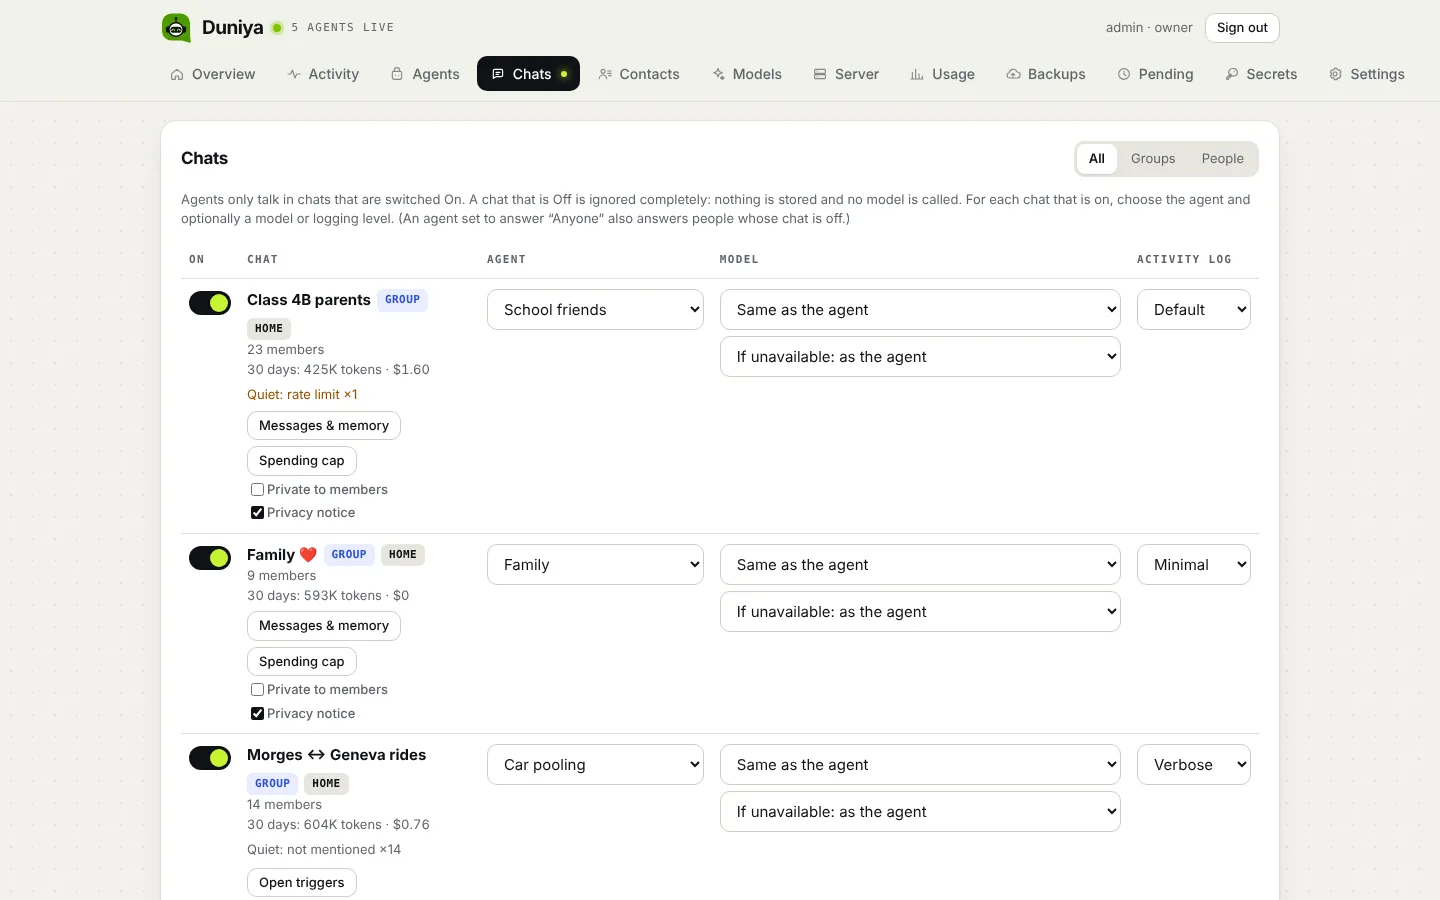
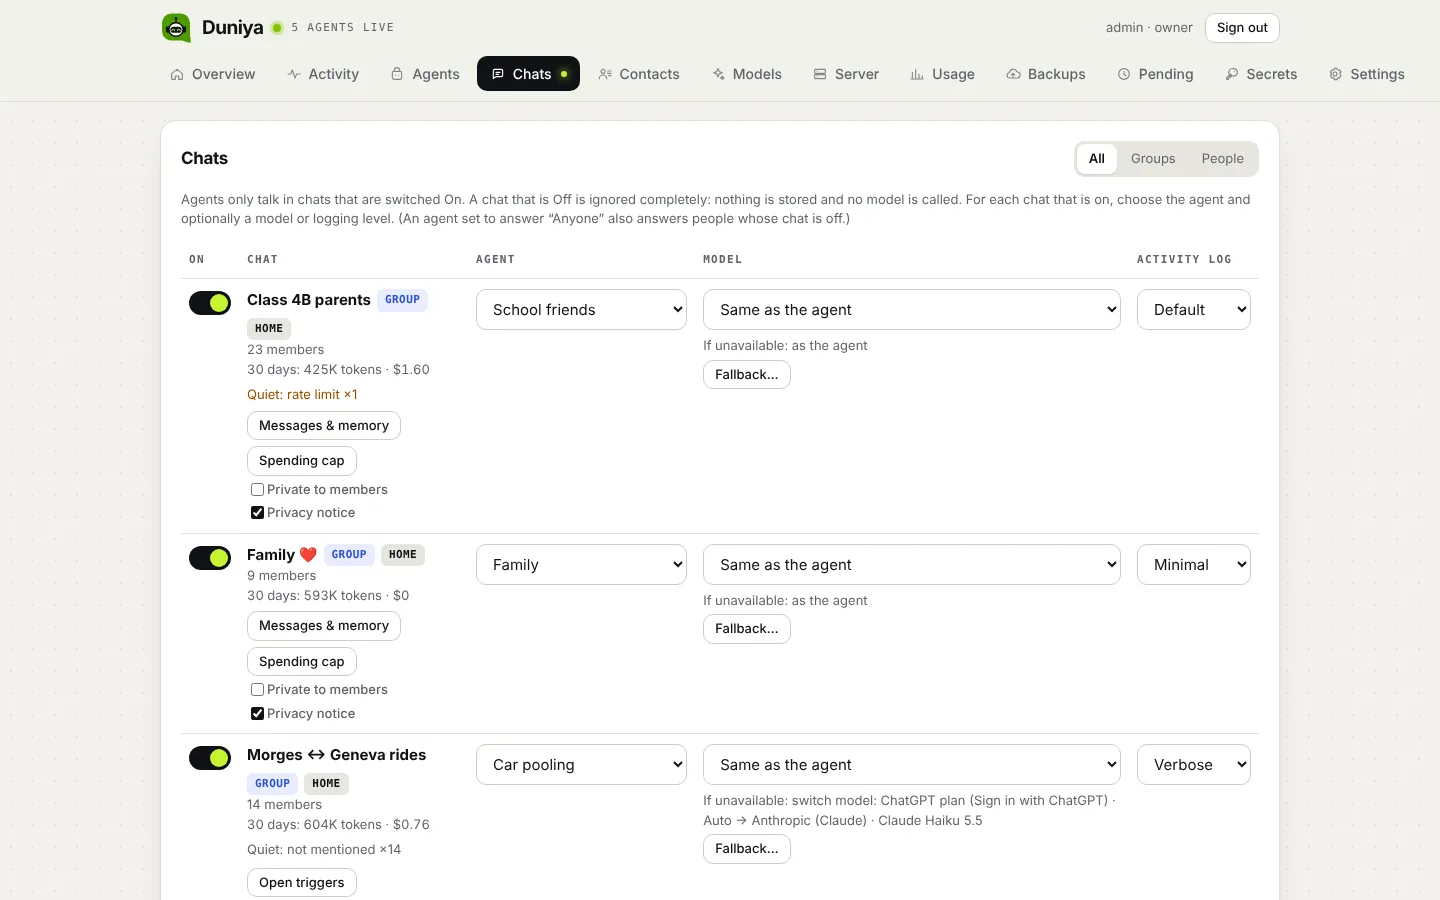
Chats: editor for the per-chat model fallback chain (Closes #65)
- Chats page: a summary line under each chat's model ("If unavailable: switch
  model: A → B") and a Fallback… button that opens a card below the list with
  the same picker and ordered chain editor as the agent page (phone friendly).
- fallbackPicker() takes an inheritLabel ("As the agent" for chats); chain
  ↑/✕ buttons are 40 px wide for touch.
- Admin MCP set_chat_settings: giving only fallback_mode or fallback_chain
  keeps the other half, like the panel editor.
- Tests (test/chat-fallback-editor.test.js), responsive state chats-fallback,
  demo chat with an own chain, new site shot card-chat-fallback, chats shots
  retaken; docs/models.md, docs/admin-mcp.md; spec 042 story 5.

Claude-Session: https://claude.ai/code/session_014omnJXeGyyVEJAZVY1v8BS

diff --git a/src/panel/public/index.html b/src/panel/public/index.html
@@ -106,6 +106,7 @@
   .hide { display: none !important; }
   .chainlist { margin: 6px 0 8px; padding-left: 22px; } .chainlist li { display: flex; align-items: center; gap: 6px; margin: 4px 0; }
   .chainlist .grow { flex: 1; min-width: 0; overflow-wrap: anywhere; } .acct { margin-top: 8px; } .acct .row { flex-wrap: wrap; }
+  .chainlist .btn { min-width: 40px; justify-content: center; }
   .code { font-family: var(--mono); font-size: 22px; letter-spacing: 3px; font-weight: 600; }
   .readonly .mut { display: none !important; }
   .meter { height: 8px; border-radius: 999px; background: var(--bg-2); overflow: hidden; margin: 8px 0 4px; }
@@ -1279,11 +1280,11 @@ function chainEditor(models, initial, { emptyText = 'Any other connected provide
   return { el: box, value: () => [...chain] };
 }
 /** Agent / chat override: inherit | on | off, plus an own chain. Returns { el, value() }. */
-function fallbackPicker(models, override, { what = 'agent' } = {}) {
+function fallbackPicker(models, override, { what = 'agent', inheritLabel = '' } = {}) {
   const o = override || { mode: 'inherit', chain: [] };
   const fb = models.fallback || { enabled: true, chain: [] };
-  const mode = h('select', { disabled: !can('admin') },
-    h('option', { value: 'inherit', selected: o.mode === 'inherit' }, `Use the Models setting (${fb.enabled ? 'switch' : 'don’t switch'})`),
+  const mode = h('select', { disabled: !can('admin'), 'aria-label': 'When the model is unavailable' },
+    h('option', { value: 'inherit', selected: o.mode === 'inherit' }, inheritLabel || `Use the Models setting (${fb.enabled ? 'switch' : 'don’t switch'})`),
     h('option', { value: 'on', selected: o.mode === 'on' }, 'Switch to another model'),
     h('option', { value: 'off', selected: o.mode === 'off' }, 'Don’t switch: stay on the chosen model'));
   const own = h('input', { type: 'checkbox', checked: !!o.chain?.length, disabled: !can('admin') });
@@ -1294,6 +1295,23 @@ function fallbackPicker(models, override, { what = 'agent' } = {}) {
   const sync = () => ownRow.classList.toggle('hide', mode.value === 'off');
   mode.onchange = sync; sync();
   return { el: h('div', {}, mode, ownRow, chainBox), value: () => ({ mode: mode.value, chain: own.checked && mode.value !== 'off' ? chain.value() : [] }) };
+}
+/** One line for a chat's fallback override (#65): "If unavailable: switch to A → B". */
+function chatFallbackLine(fb, models) {
+  const o = fb || { mode: 'inherit', chain: [] };
+  if (o.mode === 'off') return 'If unavailable: don’t switch';
+  const chain = o.chain?.length ? `: ${o.chain.map((r) => modelLabel(r, models)).join(' → ')}` : '';
+  return o.mode === 'on' ? `If unavailable: switch model${chain}` : `If unavailable: as the agent${chain ? ` (own list${chain})` : ''}`;
+}
+/** Chats → model fallback for one chat (#65): the same picker as the agent editor; saved with the chat's settings. */
+function chatFallbackEditor(c, models, { onSaved, onClose }) {
+  const pick = fallbackPicker(models, c.fallback, { what: 'chat', inheritLabel: 'As the agent' });
+  return h('div', { class: 'card', id: 'chat-fallback', style: 'margin-top:14px' }, h('h2', {}, `Model fallback · ${c.name || c.id}`),
+    h('p', { class: 'small muted', style: 'margin-top:0' }, 'When this chat’s model hits a limit, an outage or an expired sign-in, Duniya can answer with another model. Refused requests never switch, and tools are never run twice.'),
+    pick.el,
+    h('div', { class: 'row', style: 'margin-top:12px' },
+      can('admin') ? h('button', { class: 'btn primary', onclick: () => onSaved(pick.value()) }, 'Save') : null,
+      h('button', { class: 'btn', onclick: onClose }, 'Close')));
 }
 
 async function renderAgents() {
@@ -1948,8 +1966,15 @@ async function renderChats() {
   const quietBy = new Map(); // #34: why agents stayed quiet, per chat (most frequent first)
   for (const q of quiet.silences) { if (!quietBy.has(q.chat)) quietBy.set(q.chat, []); quietBy.get(q.chat).push(q); }
   const memBox = h('div', {});
+  const openFallback = (c) => {
+    memBox.replaceChildren(chatFallbackEditor(c, models, {
+      onClose: () => memBox.replaceChildren(),
+      onSaved: async (fallback) => { const ok = await savePrefs(c, { fallback }); if (ok !== undefined) { memBox.replaceChildren(); draw(); } },
+    }));
+    memBox.scrollIntoView({ behavior: 'smooth', block: 'start' });
+  };
   const multi = new Set(chats.map((c) => c.number)).size > 1;
-  const savePrefs = (c, patch) => tryApi(async () => { Object.assign(c, await api('PUT', `/api/chats/${encodeURIComponent(c.id)}/prefs`, patch)); }, 'Saved');
+  const savePrefs = (c, patch) => tryApi(async () => { Object.assign(c, await api('PUT', `/api/chats/${encodeURIComponent(c.id)}/prefs`, patch)); return true; }, 'Saved');
   const list = h('div', {});
   const draw = () => {
     const shown = chats.filter((c) => chatsFilter === 'all' || (chatsFilter === 'groups' ? c.isGroup : !c.isGroup));
@@ -1975,9 +2000,9 @@ async function renderChats() {
         h('td', { style: 'min-width:170px', 'data-label': 'Agent' }, h('select', { disabled: !can('admin'), onchange: (e) => tryApi(async () => { await api('POST', '/api/chats/bind', { chat: c.id, agent: e.target.value || null }); c.agent = e.target.value; }, e.target.value ? 'Assigned' : 'Unassigned') },
           h('option', { value: '' }, c.isGroup ? '— no agent —' : '— default for direct messages —'), agents.map((b) => h('option', { value: b.id, selected: c.agent === b.id }, b.name)))),
         h('td', { style: 'min-width:200px', 'data-label': 'Model' }, modelSelect(models, c.model, { withInherit: true, autoLabel: 'Auto (any provider)', disabled: !can('admin'), onchange: (e) => savePrefs(c, { model: e.target.value }) }),
-          // 042: per-chat fallback (the chain can be set through the AI assistant / API)
-          h('select', { style: 'margin-top:6px', 'aria-label': 'When the model is unavailable', disabled: !can('admin'), onchange: (e) => { c.fallback = { ...(c.fallback || {}), mode: e.target.value }; savePrefs(c, { fallback: c.fallback }); } },
-            [['inherit', 'If unavailable: as the agent'], ['on', 'If unavailable: switch model'], ['off', 'If unavailable: don’t switch']].map(([v, l]) => h('option', { value: v, selected: (c.fallback?.mode || 'inherit') === v }, l)))),
+          // 042 / #65: per-chat fallback, edited in a card below (same picker and chain editor as agents)
+          h('div', { class: 'small muted', style: 'margin-top:6px;overflow-wrap:anywhere' }, chatFallbackLine(c.fallback, models)),
+          h('button', { class: 'btn small', style: 'margin-top:4px', 'aria-label': `Model fallback for ${c.name || c.id}`, onclick: () => openFallback(c) }, can('admin') ? 'Fallback…' : 'Fallback')),
         h('td', { style: 'min-width:130px', 'data-label': 'Logging' }, h('select', { disabled: !can('admin'), onchange: (e) => savePrefs(c, { logging: e.target.value }) },
           [['inherit', 'Default'], ['off', 'Off'], ['minimal', 'Minimal'], ['normal', 'Normal'], ['verbose', 'Verbose']].map(([v, l]) => h('option', { value: v, selected: c.logging === v }, l)))))))) : h('p', { class: 'muted' }, chatsFilter === 'people' ? 'No direct chats yet. People appear here after they message an agent number.' : 'No chats yet (or WhatsApp is not connected).'));
   };

diff --git a/test/chat-fallback-editor.test.js b/test/chat-fallback-editor.test.js
@@ -1,0 +1,62 @@
+// #65: per-chat model fallback chain edited in the panel (Chats → Fallback…) and through the admin MCP tool
+// set_chat_settings — both store the same { mode, chain } override.
+import { test, after } from 'node:test';
+import assert from 'node:assert/strict';
+import { readFileSync } from 'node:fs';
+import { setup } from './harness.js';
+
+const t = await setup();
+const owner = await t.login();
+t.store.createUser({ username: 'vera', role: 'viewer', password: 'viewer password 123' });
+const viewer = await t.login('vera', 'viewer password 123');
+const { TOOLS } = await import('../src/panel/admin-tools.js');
+after(() => t.close());
+
+const CHAT = 'g1@g.us';
+const prefsUrl = `/api/chats/${encodeURIComponent(CHAT)}/prefs`;
+const chatRow = async () => (await t.api(owner, 'GET', '/api/chats')).body.find((c) => c.id === CHAT);
+const tool = (name) => TOOLS.find((x) => x.name === name);
+const ctx = (cookie) => ({ call: async (m, p, b) => { const r = await t.api(cookie, m, p, b); if (r.status >= 400) throw new Error(r.body.error); return r.body; } });
+
+test('#65: the panel editor saves an ordered chain with the mode; the Chats list returns it', async () => {
+  const r = await t.api(owner, 'PUT', prefsUrl, { fallback: { mode: 'on', chain: ['openai:auto', 'anthropic:claude-haiku-5-5'] } });
+  assert.equal(r.status, 200, JSON.stringify(r.body));
+  assert.deepEqual(r.body.fallback, { mode: 'on', chain: ['openai:auto', 'anthropic:claude-haiku-5-5'] });
+  assert.deepEqual((await chatRow()).fallback, r.body.fallback);
+  // "As the agent" with its own list is allowed (the picker's "Own list of models for this chat")
+  assert.deepEqual((await t.api(owner, 'PUT', prefsUrl, { fallback: { mode: 'inherit', chain: ['openai:auto'] } })).body.fallback, { mode: 'inherit', chain: ['openai:auto'] });
+  // the picker sends an empty chain for "Don't switch"
+  assert.deepEqual((await t.api(owner, 'PUT', prefsUrl, { fallback: { mode: 'off', chain: [] } })).body.fallback, { mode: 'off', chain: [] });
+  const act = t.db.listActivity({ limit: 20 }).find((a) => a.type === 'config' && /fallback/.test(a.summary));
+  assert.match(act.summary, /fallback off/);
+});
+
+test('#65: bad chains are refused with the field; viewers cannot change it', async () => {
+  const bad = await t.api(owner, 'PUT', prefsUrl, { fallback: { mode: 'on', chain: ['not a model'] } });
+  assert.equal(bad.status, 400);
+  assert.equal(bad.body.field, 'fallback.chain');
+  const many = await t.api(owner, 'PUT', prefsUrl, { fallback: { mode: 'on', chain: Array.from({ length: 11 }, (_, i) => `p${i}:auto`) } });
+  assert.equal(many.status, 400);
+  assert.equal((await t.api(viewer, 'PUT', prefsUrl, { fallback: { mode: 'on', chain: [] } })).status, 403);
+});
+
+test('#65: set_chat_settings stores the same shape, and a partial change keeps the other half', async () => {
+  const set = tool('set_chat_settings');
+  assert.ok(set.calls.some(([m, p]) => m === 'GET' && p === '/api/chats'), 'declares the read it needs');
+  await set.run({ chat: CHAT, fallback_mode: 'on', fallback_chain: ['openai:auto', 'anthropic:auto'] }, ctx(owner));
+  assert.deepEqual((await chatRow()).fallback, { mode: 'on', chain: ['openai:auto', 'anthropic:auto'] });
+  await set.run({ chat: CHAT, fallback_chain: ['anthropic:auto'] }, ctx(owner));
+  assert.deepEqual((await chatRow()).fallback, { mode: 'on', chain: ['anthropic:auto'] }, 'mode kept');
+  await set.run({ chat: CHAT, fallback_mode: 'inherit' }, ctx(owner));
+  assert.deepEqual((await chatRow()).fallback, { mode: 'inherit', chain: ['anthropic:auto'] }, 'chain kept');
+  await set.run({ chat: CHAT, model: 'auto' }, ctx(owner));
+  assert.deepEqual((await chatRow()).fallback, { mode: 'inherit', chain: ['anthropic:auto'] }, 'untouched without fallback args');
+  await assert.rejects(set.run({ chat: CHAT, fallback_mode: 'on' }, ctx(viewer)), /Read-only|Requires/);
+});
+
+test('#65: the Chats page uses the shared picker and chain editor (no separate select)', () => {
+  const html = readFileSync(new URL('../src/panel/public/index.html', import.meta.url), 'utf8');
+  assert.match(html, /function chatFallbackEditor\(c, models[^)]*\) \{\n\s+const pick = fallbackPicker\(models, c\.fallback, \{ what: 'chat'/);
+  assert.doesNotMatch(html, /'If unavailable: switch model'\], \['off'/, 'the old one-line select is gone');
+  assert.match(html, /openFallback\(c\)/);
+});

diff --git a/src/panel/admin-tools.js b/src/panel/admin-tools.js
@@ -122,12 +122,19 @@ export const TOOLS = [
   { name: 'assign_chat', calls: [['POST', '/api/chats/bind']], description: 'Choose which agent answers in a chat. Empty agent_id removes the agent from the chat.',
     input: { chat: str('Chat id (see list_chats)'), agent_id: str('Agent id, or empty to unassign') }, required: ['chat'],
     run: (a, x) => x.call('POST', '/api/chats/bind', { chat: a.chat, agent: a.agent_id || null }) },
-  { name: 'set_chat_settings', calls: [['PUT', '/api/chats/x/prefs']],
-    description: 'Per-chat model, model fallback and activity logging. model: inherit | auto | provider:auto | provider:model. fallback_mode: inherit | on | off (use other models when this one fails with a limit, outage or expired sign-in); fallback_chain: models to try in order (empty = the Models setting). logging: inherit | off | minimal | normal | verbose.',
+  { name: 'set_chat_settings', calls: [['PUT', '/api/chats/x/prefs'], ['GET', '/api/chats']],
+    description: 'Per-chat model, model fallback and activity logging (the panel\'s Chats page: Model, Fallback…, Logging). model: inherit | auto | provider:auto | provider:model. fallback_mode: inherit | on | off (use other models when this one fails with a limit, outage or expired sign-in); fallback_chain: models to try in order (empty list = the agent\'s or the Models setting). Giving only one of fallback_mode / fallback_chain keeps the other as it is. logging: inherit | off | minimal | normal | verbose.',
     input: { chat: str('Chat id'), model: str('Model (optional)'), logging: { type: 'string', enum: ['inherit', 'off', 'minimal', 'normal', 'verbose'], description: 'Logging level (optional)' },
       fallback_mode: { type: 'string', enum: ['inherit', 'on', 'off'], description: 'Model fallback for this chat (optional)' }, fallback_chain: { type: 'array', items: { type: 'string' }, description: 'provider:model or provider:auto, in order (optional)' } }, required: ['chat'],
-    run: (a, x) => x.call('PUT', `/api/chats/${enc(a.chat)}/prefs`, { model: a.model, logging: a.logging,
-      ...(a.fallback_mode !== undefined || a.fallback_chain !== undefined ? { fallback: { mode: a.fallback_mode || 'inherit', chain: a.fallback_chain || [] } } : {}) }) },
+    run: async (a, x) => {
+      let fallback;
+      if (a.fallback_mode !== undefined || a.fallback_chain !== undefined) { // #65: a partial change keeps the rest, as in the panel editor
+        const cur = a.fallback_mode === undefined || a.fallback_chain === undefined
+          ? ((await x.call('GET', '/api/chats')) || []).find((c) => c.id === a.chat)?.fallback || { mode: 'inherit', chain: [] } : {};
+        fallback = { mode: a.fallback_mode ?? cur.mode ?? 'inherit', chain: a.fallback_chain ?? cur.chain ?? [] };
+      }
+      return x.call('PUT', `/api/chats/${enc(a.chat)}/prefs`, { model: a.model, logging: a.logging, ...(fallback ? { fallback } : {}) });
+    } },
   // ---------- owner assistant and privacy (044) ----------
   { name: 'get_owner_assistant', readOnly: true, calls: [['GET', '/api/owner-assistant']],
     description: 'The built-in owner assistant: its model, whether your WhatsApp number is linked (status none, code, pending or linked, and the number), and for owners every linked panel user. Linking itself is done in the panel (Settings → Owner assistant).',

diff --git a/docs/site/index.html b/docs/site/index.html
@@ -315,7 +315,7 @@
       <div class="tile span-2">
         <span class="label">Fallback</span>
         <h3>When a model fails.</h3>
-        <p>Paused accounts show why and until when (“Paused until 13:57 — usage limit reached”). Refused requests never switch; tools never run twice.</p>
+        <p>Paused accounts show why and until when (“Paused until 13:57 — usage limit reached”). Refused requests never switch; tools never run twice. Each agent and each chat can keep its own ordered list of models.</p>
         <a class="shot tall" href="img/card-fallback.webp"><img src="img/card-fallback.webp" width="684" height="1136" loading="lazy" alt="When a model fails: OpenRouter paused until 13:57 because of a usage limit; switch automatically to the next model."></a>
       </div>
       <div class="tile span-3">

diff --git a/specs/042-provider-fallback/spec.md b/specs/042-provider-fallback/spec.md
@@ -4,7 +4,7 @@
 
 **Created**: 2026-11-15
 
-**Status**: Implemented (v2.5.0)
+**Status**: Implemented (v2.5.0); per-chat chain editor in the panel (#65, v2.11.0)
 
 **Input**: Owner question (#43): "Does the app fall back to another provider when one fails or runs out of quota? Can
 people add more than one account of the same provider to pool quota?"
@@ -59,6 +59,23 @@ specific setting wins (chat > agent > global).
 - Background summaries and the AI helper use the same fallback.
 - Pauses live in memory: a restart probes every account again.
 
+### User Story 5 - Edit a chat's fallback chain in the panel (Priority: P3, #65, v2.11.0)
+
+An admin wants the family group to fall back to a cheap model first, then any other provider, without using the API
+or an AI assistant.
+
+**Acceptance Scenarios**:
+
+1. **Given** the Chats page, **Then** every chat shows one line under its model ("If unavailable: as the agent",
+   "If unavailable: switch model: A → B", "If unavailable: don't switch") and a **Fallback…** button.
+2. **When** the admin presses it, **Then** a card opens below the list (as the spending-cap editor) with the same
+   picker as the agent editor: *As the agent* / *Switch to another model* / *Don't switch*, *Own list of models for
+   this chat* and the ordered chain editor (add, ↑, ✕, at most 10). **Save** stores `{ mode, chain }` with the chat
+   settings; the line updates; Activity records it.
+3. Viewers see the line and the card read-only (no Save). The card fits a 375 px phone.
+4. The admin MCP tool `set_chat_settings` stores the same shape; giving only `fallback_mode` or only
+   `fallback_chain` keeps the other half (as the panel, which always sends both).
+
 ## Requirements *(mandatory)*
 
 - **FR-001** Accounts: stable ids; the first account of a type keeps the type id (`anthropic`, `openai`, `chatgpt`,
@@ -78,6 +95,8 @@ specific setting wins (chat > agent > global).
   `set_account_strategy`, `retry_model_account`; `set_chat_settings` takes fallback.
 - **FR-008** Panel: Models (health, accounts, strategy, terms note, "When a model fails"), agent page, Chats, Usage,
   test console; DESIGN.md phone rules.
+- **FR-009** (#65) Chats: summary line + **Fallback…** card reusing `fallbackPicker()` / `chainEditor()` (inherit label
+  "As the agent"); `set_chat_settings` merges a partial fallback change with the stored one.
 
 ## Success Criteria
 
@@ -85,3 +104,4 @@ specific setting wins (chat > agent > global).
 - No duplicate replies or tool runs because of a fallback.
 - `test/fallback.test.js` covers chain order, no retry on 400, model-not-found, breaker cooldown/doubling/recovery,
   reconnect, no double tool execution, failover/spread across accounts, overrides, alerts.
+- `test/chat-fallback-editor.test.js` covers the per-chat chain round trip, validation, roles and the admin MCP merge.

diff --git a/docs/models.md b/docs/models.md
@@ -42,6 +42,10 @@
 
 - **Models → When a model fails** sets the chain. Default: any other connected provider's *Auto*. Per agent and per
   chat: inherit / switch / don't switch, or an own chain.
+- **Per chat:** Chats → the chat's **Fallback…** button (under its model) opens the same editor as the agent editor:
+  *As the agent*, *Switch to another model* or *Don't switch*, and optionally an own ordered list of models
+  (↑ to reorder, ✕ to remove, at most 10). The line under the model shows what is set, e.g.
+  "If unavailable: switch model: OpenAI · Auto → Anthropic · Auto".
 - A failing account is paused (1 min, doubling to 30 min; usage limits until the provider's reset time), shown as
   "Paused until 14:20 — usage limit reached".
 - The owner gets a WhatsApp alert after 15 minutes or when no provider can answer.
@@ -53,8 +57,11 @@
 
 ![When a model fails](site/img/card-fallback.webp)
 
+![Chats → Fallback… for one chat: switch to another model, with an own list of two models in order](site/img/card-chat-fallback.webp)
+
 Admin MCP: `list_model_accounts`, `get_model_fallback`, `set_model_fallback`, `set_account_strategy`,
-`retry_model_account`.
+`retry_model_account`; per chat `set_chat_settings` (`fallback_mode`, `fallback_chain`; giving only one keeps the
+other, like the panel editor).
 
 ## Photos & voice
 

diff --git a/specs/042-provider-fallback/plan.md b/specs/042-provider-fallback/plan.md
@@ -26,6 +26,13 @@
 - Panel routes `src/panel/routes/providers.js`; admin tools; `index.html` (`chainEditor`, `fallbackPicker`,
   `accountsBox`, `healthNote`, `chatgptFlow`); demo data shows a second ChatGPT account and a paused OpenRouter.
 
+### #65 (v2.11.0): per-chat chain editor
+
+- Panel only (`index.html`): `fallbackPicker(models, override, { what, inheritLabel })`, `chatFallbackLine()`,
+  `chatFallbackEditor()`; the card opens in the Chats page's detail box (like the spending cap), so it stacks on phones.
+- `admin-tools.js` `set_chat_settings`: merges a partial `fallback_mode` / `fallback_chain` with the stored override.
+- No core or API change: `PUT /api/chats/:chat/prefs` already validates `{ mode, chain }` (`cleanOverride`).
+
 ## Constitution Check
 
 - II generic core: no agent-specific logic. III/IV: tool permissions and confirmations unchanged; tools never re-run.

diff --git a/specs/042-provider-fallback/tasks.md b/specs/042-provider-fallback/tasks.md
@@ -12,3 +12,11 @@
   demo data
 - [X] T010 Tests `test/fallback.test.js` (failing fake providers in `test/harness.js`); existing tests adjusted where a
   failure now falls back; docs; version 2.5.0
+
+## #65 — per-chat chain editor (v2.11.0)
+
+- [X] T011 Panel Chats: `chatFallbackLine()` under the model, **Fallback…** opens `chatFallbackEditor()` (shared
+  `fallbackPicker` with an `inheritLabel`), saved through `PUT /api/chats/:chat/prefs`
+- [X] T012 Admin MCP `set_chat_settings`: partial fallback change keeps the other half (reads `GET /api/chats`)
+- [X] T013 Tests `test/chat-fallback-editor.test.js`; responsive state `chats-fallback`
+- [X] T014 Docs `docs/models.md`, `docs/admin-mcp.md`; screenshots `chats-*`, `card-fallback` retaken; version 2.11.0

diff --git a/docs/admin-mcp.md b/docs/admin-mcp.md
@@ -55,7 +55,7 @@ rotation). Spec: [`specs/017-admin-mcp/`](../specs/017-admin-mcp/spec.md).
 |---|---|
 | Overview | status, activity |
 | Agents | create, update, draft with AI, test, export, enable |
-| Chats | assign, settings, private, privacy notice, stored messages |
+| Chats | assign, settings (model, fallback mode and chain, logging), private, privacy notice, stored messages |
 | Money | usage, prices, spending caps, owner alerts, weekly summary |
 | People & memory | contacts, memory, WhatsApp groups, WhatsApp numbers, users |
 | Models | models, accounts, fallback, photos & voice |
